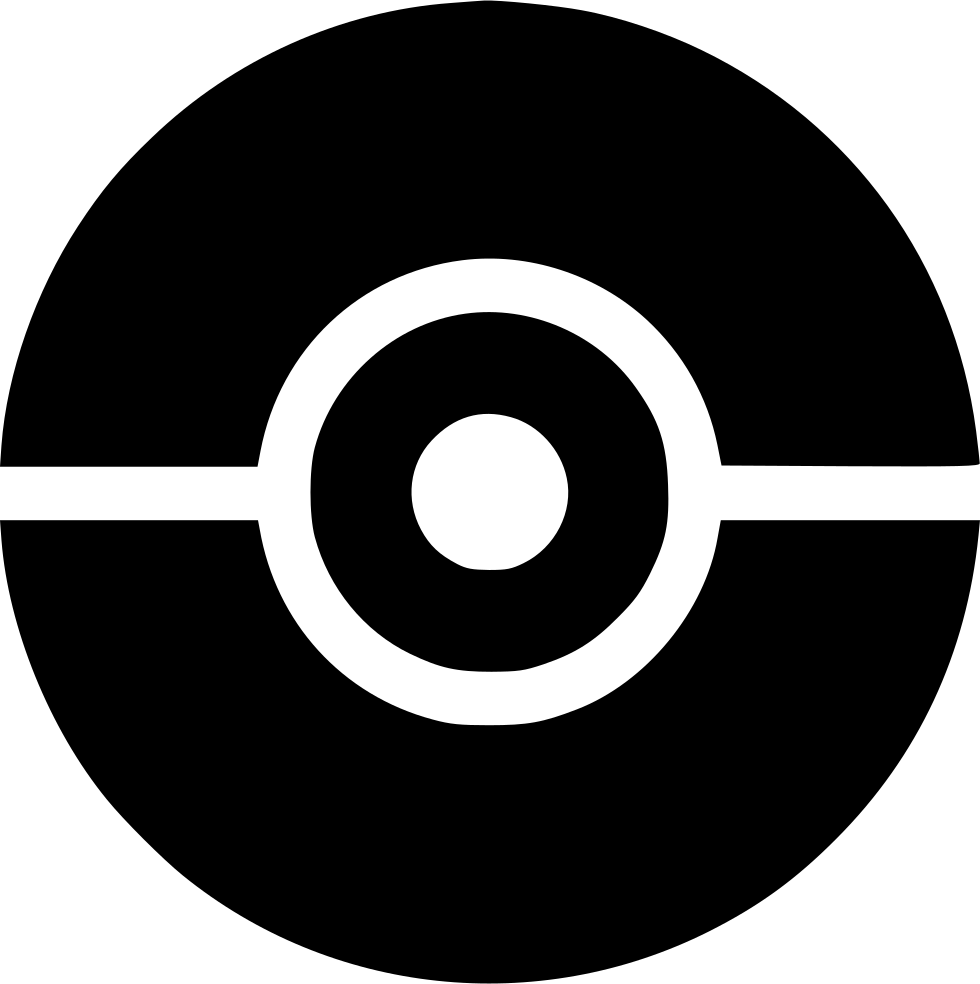
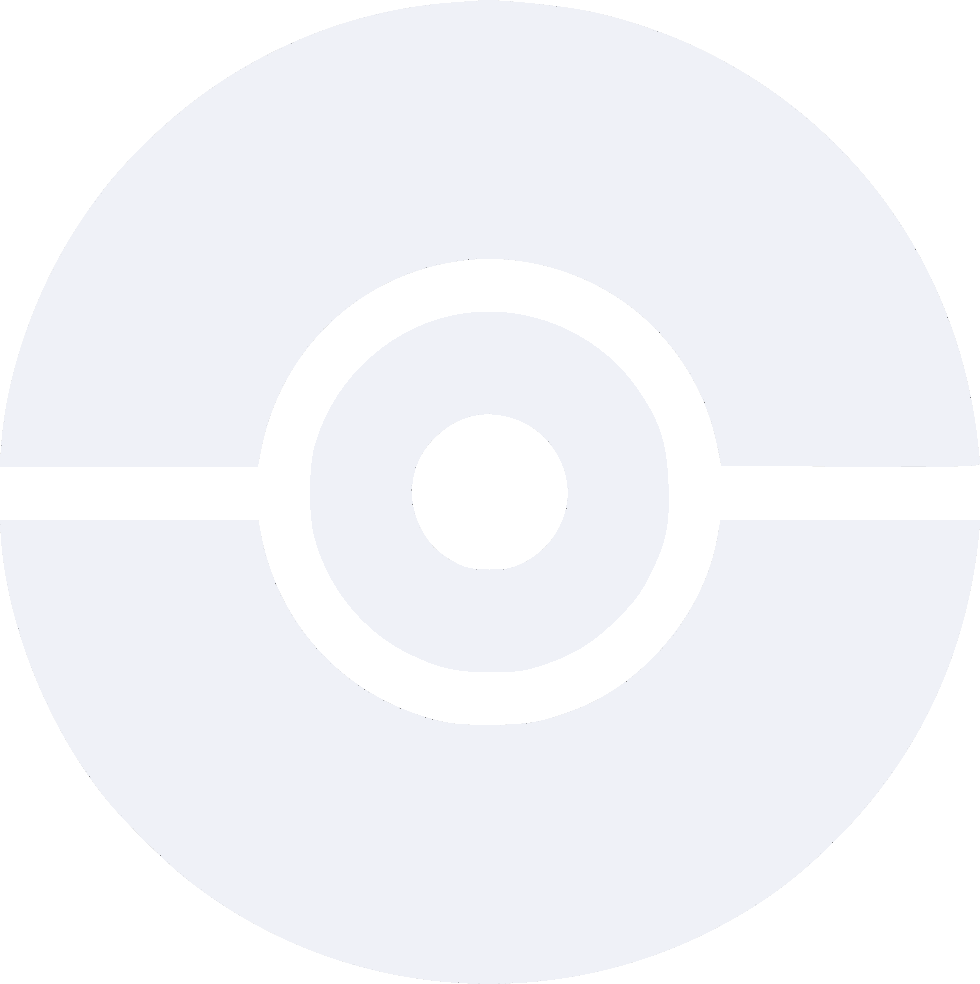
Rectif sur des petits Bug / ajout déco gallery et barre de recherche / Ajout image déco

diff --git a/src/components/SearchBar/PokemonSearch.module.css b/src/components/SearchBar/PokemonSearch.module.css
@@ -2,12 +2,17 @@
     display: flex;
     justify-content: space-evenly;
     align-items: center;
-    margin: 30px 10px;
+    margin: 30px 10px 25px 10px;
     padding: 15px;
     border-radius: 20px;
     box-shadow: #EDEDED 0 10px 10px;
     background-color: white;
-
+    width: 80%;
+    
+    /* position: fixed;
+    z-index: 2;
+    top: 20px;
+    left: 20px; */
 }
 
 .inputSearch {
@@ -15,6 +20,7 @@
     outline: none;
     font-size: 18px;
     flex: 1;
+    font-family: 'Outfit', sans-serif;
 
 }
 

diff --git a/src/components/PokemonGallery/PokemonGallery.module.css b/src/components/PokemonGallery/PokemonGallery.module.css
@@ -2,26 +2,26 @@
   display: flex;
   justify-content: center;
   align-items: center;
-  padding: 20px;
+  width: 87%;
 }
 
 .gridContainer {
   display: grid;
   grid-template-columns: repeat(3, 1fr);
-  gap: 20px;
   width: 100%;
+  height: auto;
 }
 
 .loader {
   display: flex;
   justify-content: center;
   align-items: center;
-  margin-top: 60px;
+  margin-top: 120px;
 }
 
 .loader img {
-  width: 250px;
-  height: 250px;
+  width: 200px;
+  height: 200px;
   animation: spin 2s linear infinite;
 }
 

diff --git a/src/view/HomePage/HomePage.module.css b/src/view/HomePage/HomePage.module.css
@@ -1,3 +1,16 @@
 .pokedex {
+    display: flex;
+    flex-direction: column;
+    justify-content: center;
+    align-items: center;
     width: 100%;
+    position: relative;
+}
+
+.decoPokeball {
+    width: 450px;
+    position: absolute;
+    top: -70px;
+    left: -165px;
+    z-index: -1;
 }

diff --git a/src/view/HomePage/HomePage.tsx b/src/view/HomePage/HomePage.tsx
@@ -36,6 +36,7 @@ const HomePage = () => {
 
   return (
     <div className={Styles.pokedex}>
+      <img className={Styles.decoPokeball} src="pokeball.png" alt="Déco Pokeball" />
       <SearchBar onSearch={handleSearch} />
       <PokemonGallery pokemons={filteredPokemons}/>
     </div>
